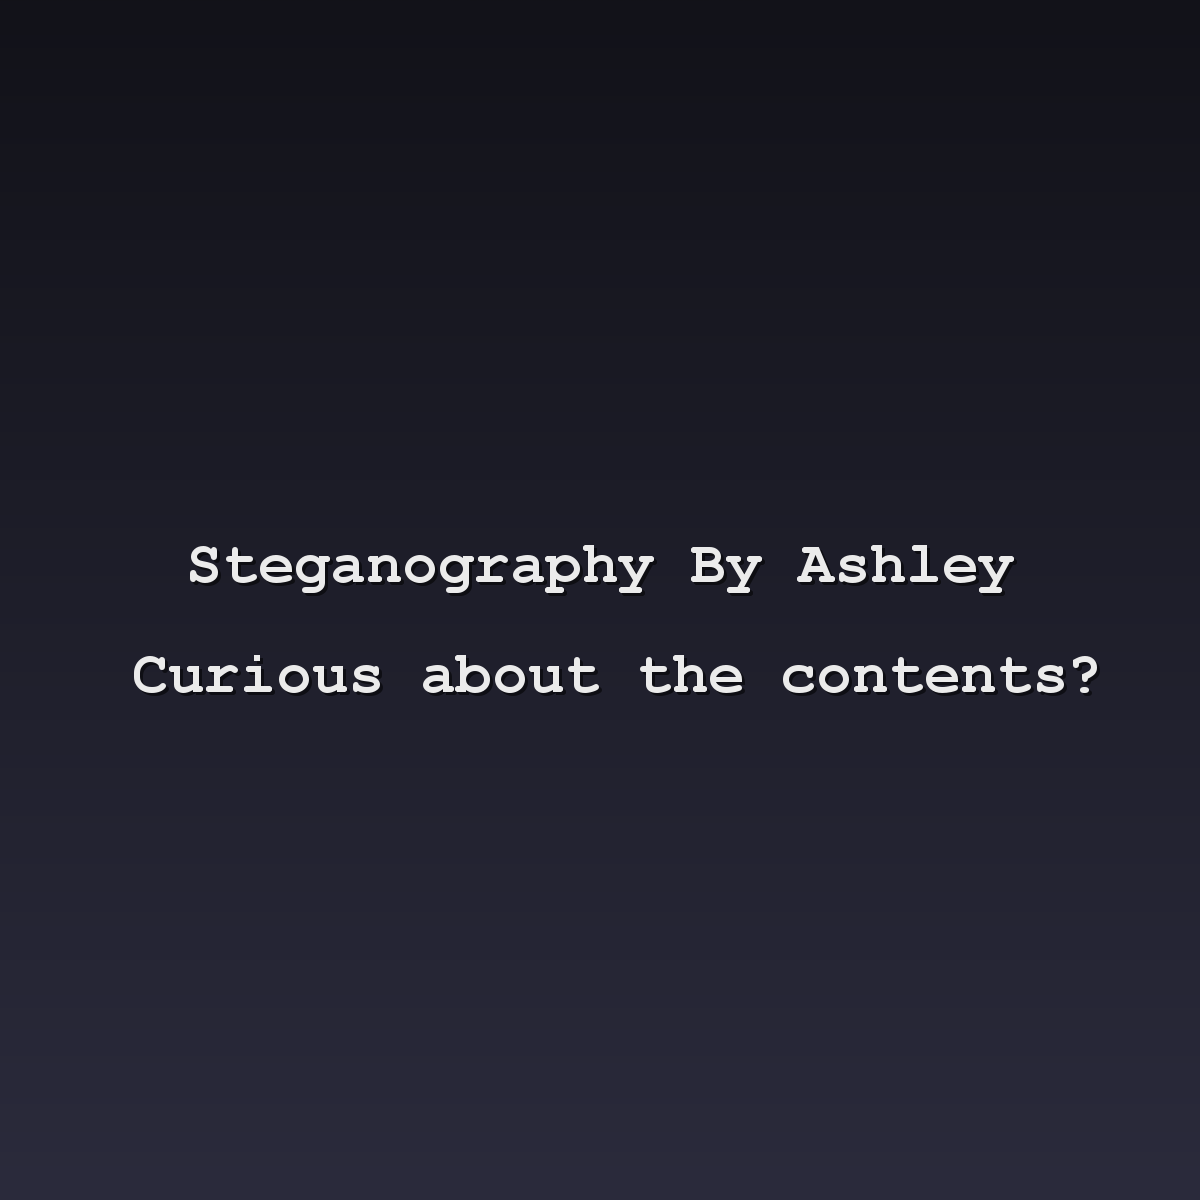
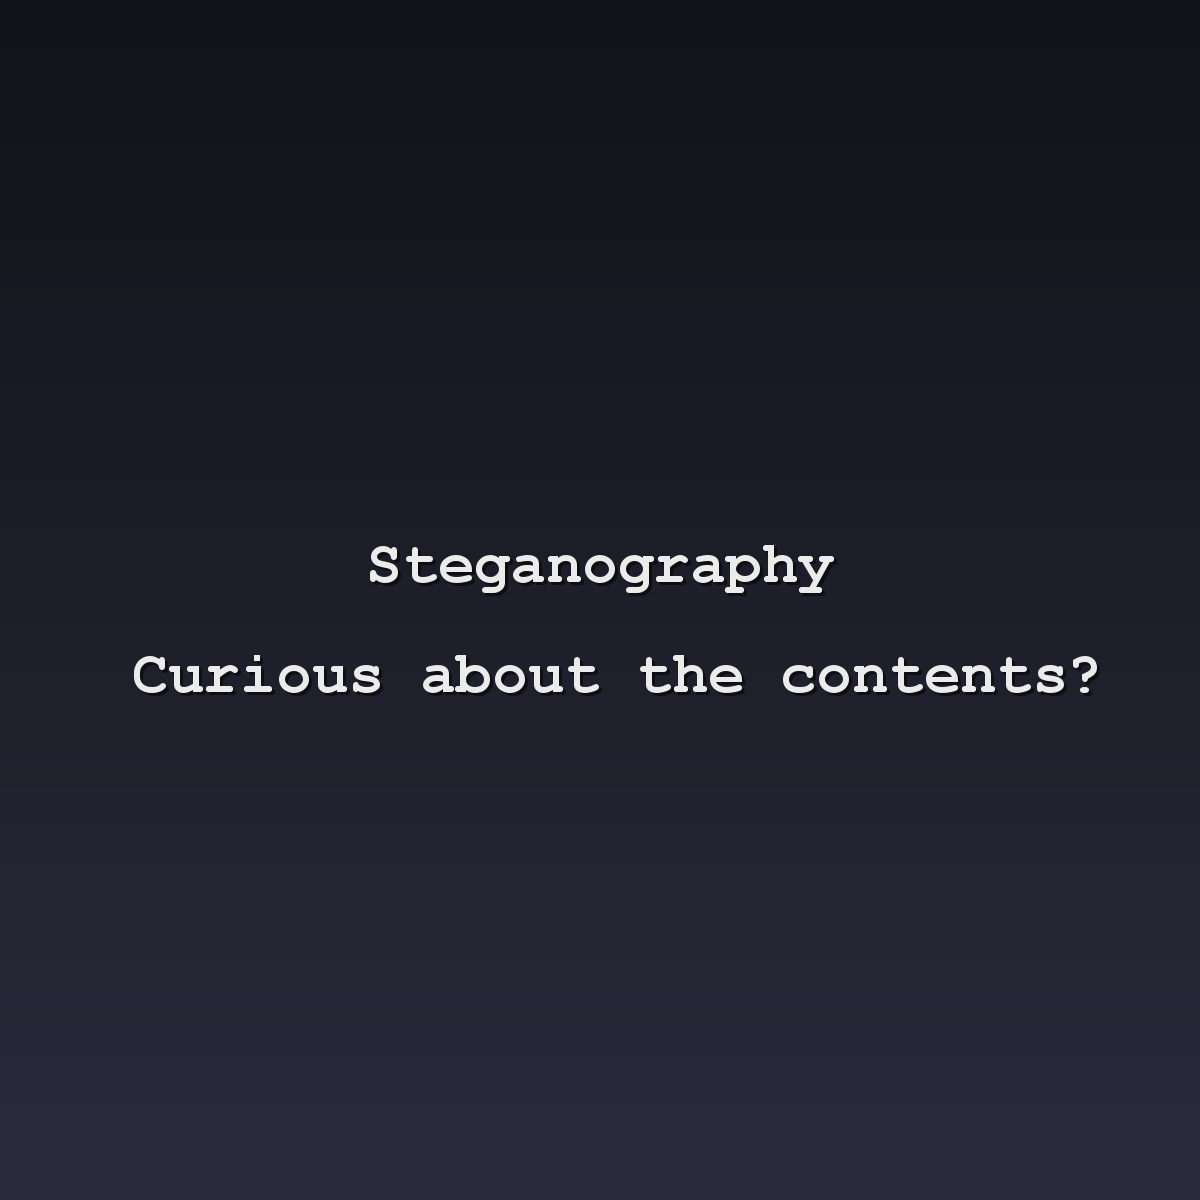
updated

Changed region(s): [[0.4625, 0.4625, 0.8633, 0.4933], [0.1542, 0.4317, 0.4317, 0.4933]]

diff --git a/src/main/java/me/moruto/steganography/Main.java b/src/main/java/me/moruto/steganography/Main.java
@@ -1,12 +1,11 @@
-package me.ashley.steganography;
+package me.moruto.steganography;
 
-import me.ashley.steganography.image.ImageMode;
-import me.ashley.steganography.image.StegoImage;
+import me.moruto.steganography.image.ImageMode;
+import me.moruto.steganography.image.StegoImage;
 
 import java.io.File;
 
 public class Main {
-
     public static void main(String[] args) {
         try {
             String password = "myStrongPassword123";
@@ -22,7 +21,7 @@ public class Main {
                     encodedImage,
                     password,
                     ImageMode.GRAYSCALE,
-                    "Steganography By Ashley\n Curious about the contents?"
+                    "Steganography\n Curious about the contents?"
             );
 
             System.out.println("Encoded successfully!");

diff --git a/src/main/java/me/moruto/steganography/image/StegoImage.java b/src/main/java/me/moruto/steganography/image/StegoImage.java
@@ -1,7 +1,7 @@
-package me.ashley.steganography.image;
+package me.moruto.steganography.image;
 
-import me.ashley.steganography.util.Compressor;
-import me.ashley.steganography.util.Crypto;
+import me.moruto.steganography.util.Compressor;
+import me.moruto.steganography.util.Crypto;
 
 import javax.imageio.ImageIO;
 import java.awt.*;

diff --git a/src/main/java/me/moruto/steganography/util/Compressor.java b/src/main/java/me/moruto/steganography/util/Compressor.java
@@ -1,4 +1,4 @@
-package me.ashley.steganography.util;
+package me.moruto.steganography.util;
 
 import java.io.ByteArrayInputStream;
 import java.io.ByteArrayOutputStream;

diff --git a/src/main/java/me/moruto/steganography/util/Crypto.java b/src/main/java/me/moruto/steganography/util/Crypto.java
@@ -1,4 +1,4 @@
-package me.ashley.steganography.util;
+package me.moruto.steganography.util;
 
 import javax.crypto.Cipher;
 import javax.crypto.SecretKey;

diff --git a/src/main/java/me/moruto/steganography/image/ImageMode.java b/src/main/java/me/moruto/steganography/image/ImageMode.java
@@ -1,4 +1,4 @@
-package me.ashley.steganography.image;
+package me.moruto.steganography.image;
 
 public enum ImageMode {
     GRAYSCALE(1),
